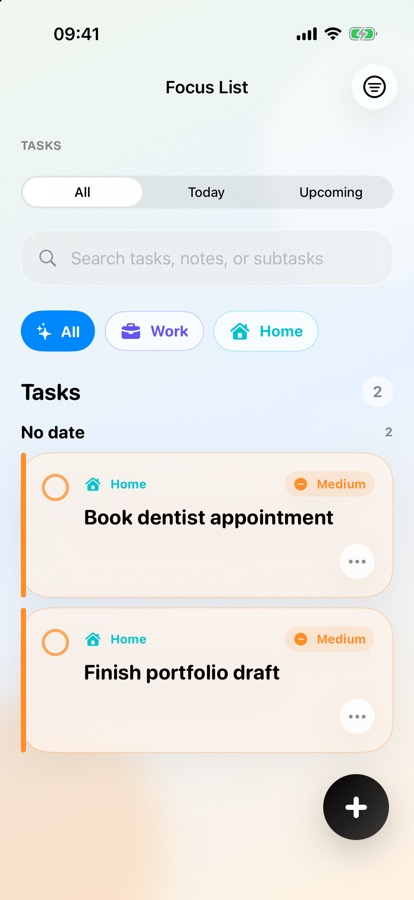
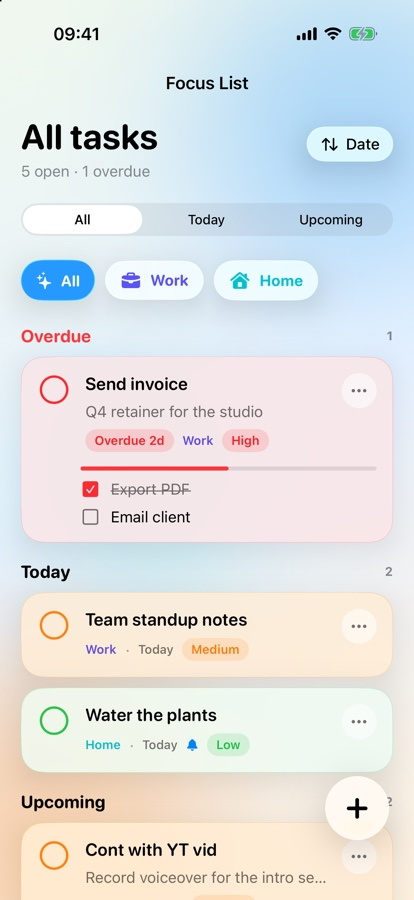
Refresh Focus List screenshots, add Mac shots, link Tern on the App Store

diff --git a/index.html b/index.html
@@ -175,7 +175,7 @@
     { id: 'tern', name: 'Tern', tag: 'Keyboard-first email', icon: 'icon-tern.png', c1: '#ffb48a', c2: '#ff6a3d', w3: true,
       chips: ['Mac 1.2.3', 'iPhone', 'Email'],
       desc: 'A keyboard-first email app for Gmail and iCloud. Mail is split into what needs a reply and what’s just FYI, newsletters get their own quiet place, and smart drafting runs entirely on your device.',
-      btns: [['Download for Mac', 'https://github.com/tern-inbox/tern/releases/latest', 1], ['Website', 'https://tern-inbox.github.io'], ['iPhone: in App Store review', null]],
+      btns: [['Download on the App Store', 'https://apps.apple.com/gb/app/tern-inbox/id6832356359', 1], ['Download for Mac', 'https://github.com/tern-inbox/tern/releases/latest'], ['Website', 'https://tern-inbox.github.io']],
       cover: { src: 'tern-mac-01-inbox.jpg', cls: '' },
       media: [{ g: 'Mac', k: 'land', s: ['tern-mac-01-inbox.jpg', 'tern-mac-02-draft.jpg', 'tern-mac-03-command.jpg', 'tern-mac-09-invite.jpg', 'tern-mac-05-newsletters.jpg'] },
               { g: 'iPhone', k: 'phone', s: ['tern-1-needs-reply.png', 'tern-2-fyi.png', 'tern-3-invite.png', 'tern-4-reader.png', 'tern-5-reply.png', 'tern-6-newsletters.png'] }] },
@@ -204,11 +204,12 @@
       cover: { mini: 'flash' },
       media: [{ k: 'land', s: ['flashcraft-decks.jpg', 'flashcraft-deck.jpg', 'flashcraft-question.jpg', 'flashcraft-answer.jpg', 'flashcraft-themes.jpg'] }] },
     { id: 'focuslist', name: 'Focus List', tag: 'Simple to-do list', icon: 'icon-focuslist.png', c1: '#c9d9ff', c2: '#9a7bff', w3: true,
-      chips: ['iPhone', 'SwiftUI', 'To-do list'],
+      chips: ['iPhone', 'Mac', 'SwiftUI', 'To-do list'],
       desc: 'A simple, modern to-do list with priorities, work and home categories, due dates, reminders and subtasks with progress tracking.',
       btns: [['Source on GitHub', 'https://github.com/hayatayubi/focuslist', 1], ['App Store: coming soon', null]],
       cover: { mini: 'phones' },
-      media: [{ k: 'phone', s: ['focuslist-list.jpg', 'focuslist-new-task.jpg'] }] },
+      media: [{ g: 'iPhone', k: 'phone', s: ['focuslist-list.jpg', 'focuslist-new-task.jpg'] },
+              { g: 'Mac', k: 'land', s: ['focuslist-mac-list.jpg', 'focuslist-mac-details.jpg', 'focuslist-mac-new-task.jpg'] }] },
     { id: 'calendarwidget', name: 'CalendarWidget', tag: 'Minimal calendar widget', icon: 'icon-calendar.png', c1: '#dfe6f5', c2: '#9db3e6', w3: true,
       chips: ['iPhone', 'WidgetKit'],
       desc: 'A minimalist home-screen widget for your upcoming calendar events: plain type, generous whitespace, light or dark, tap to open Calendar.',
